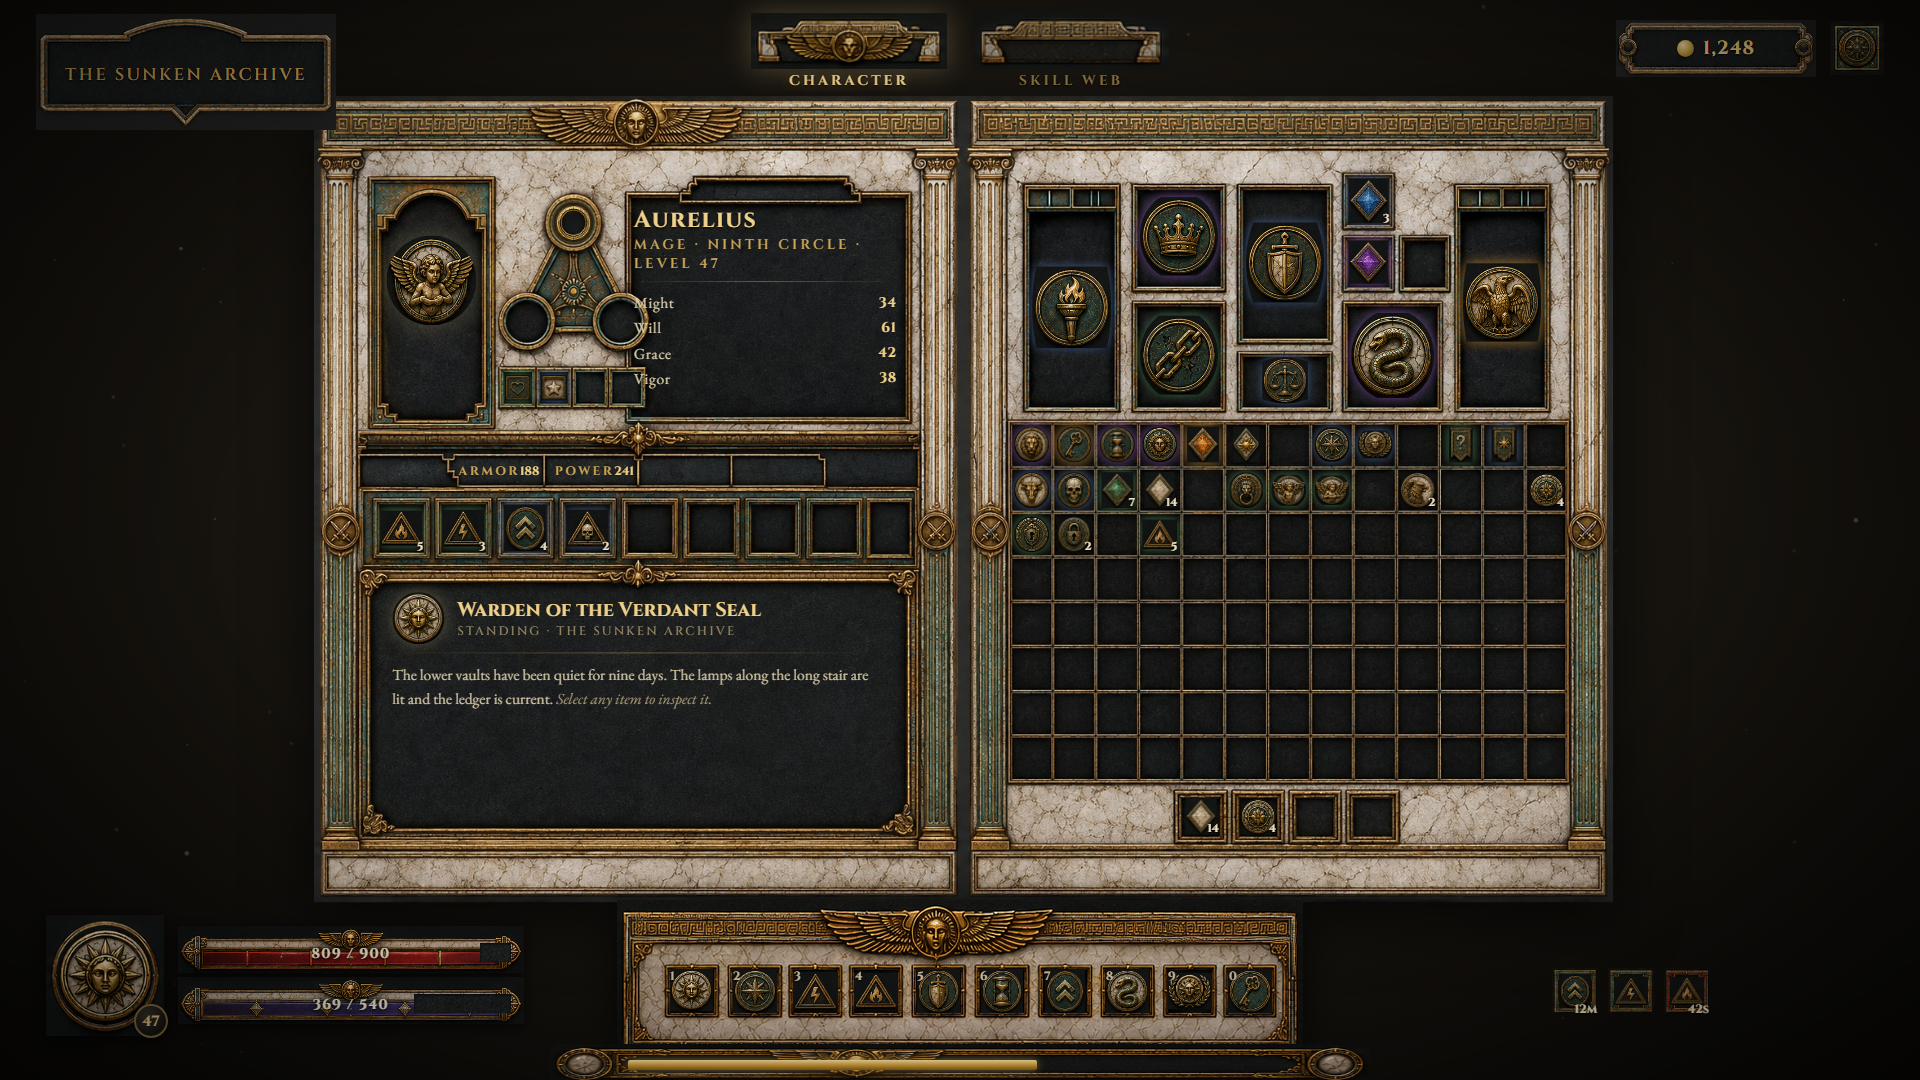
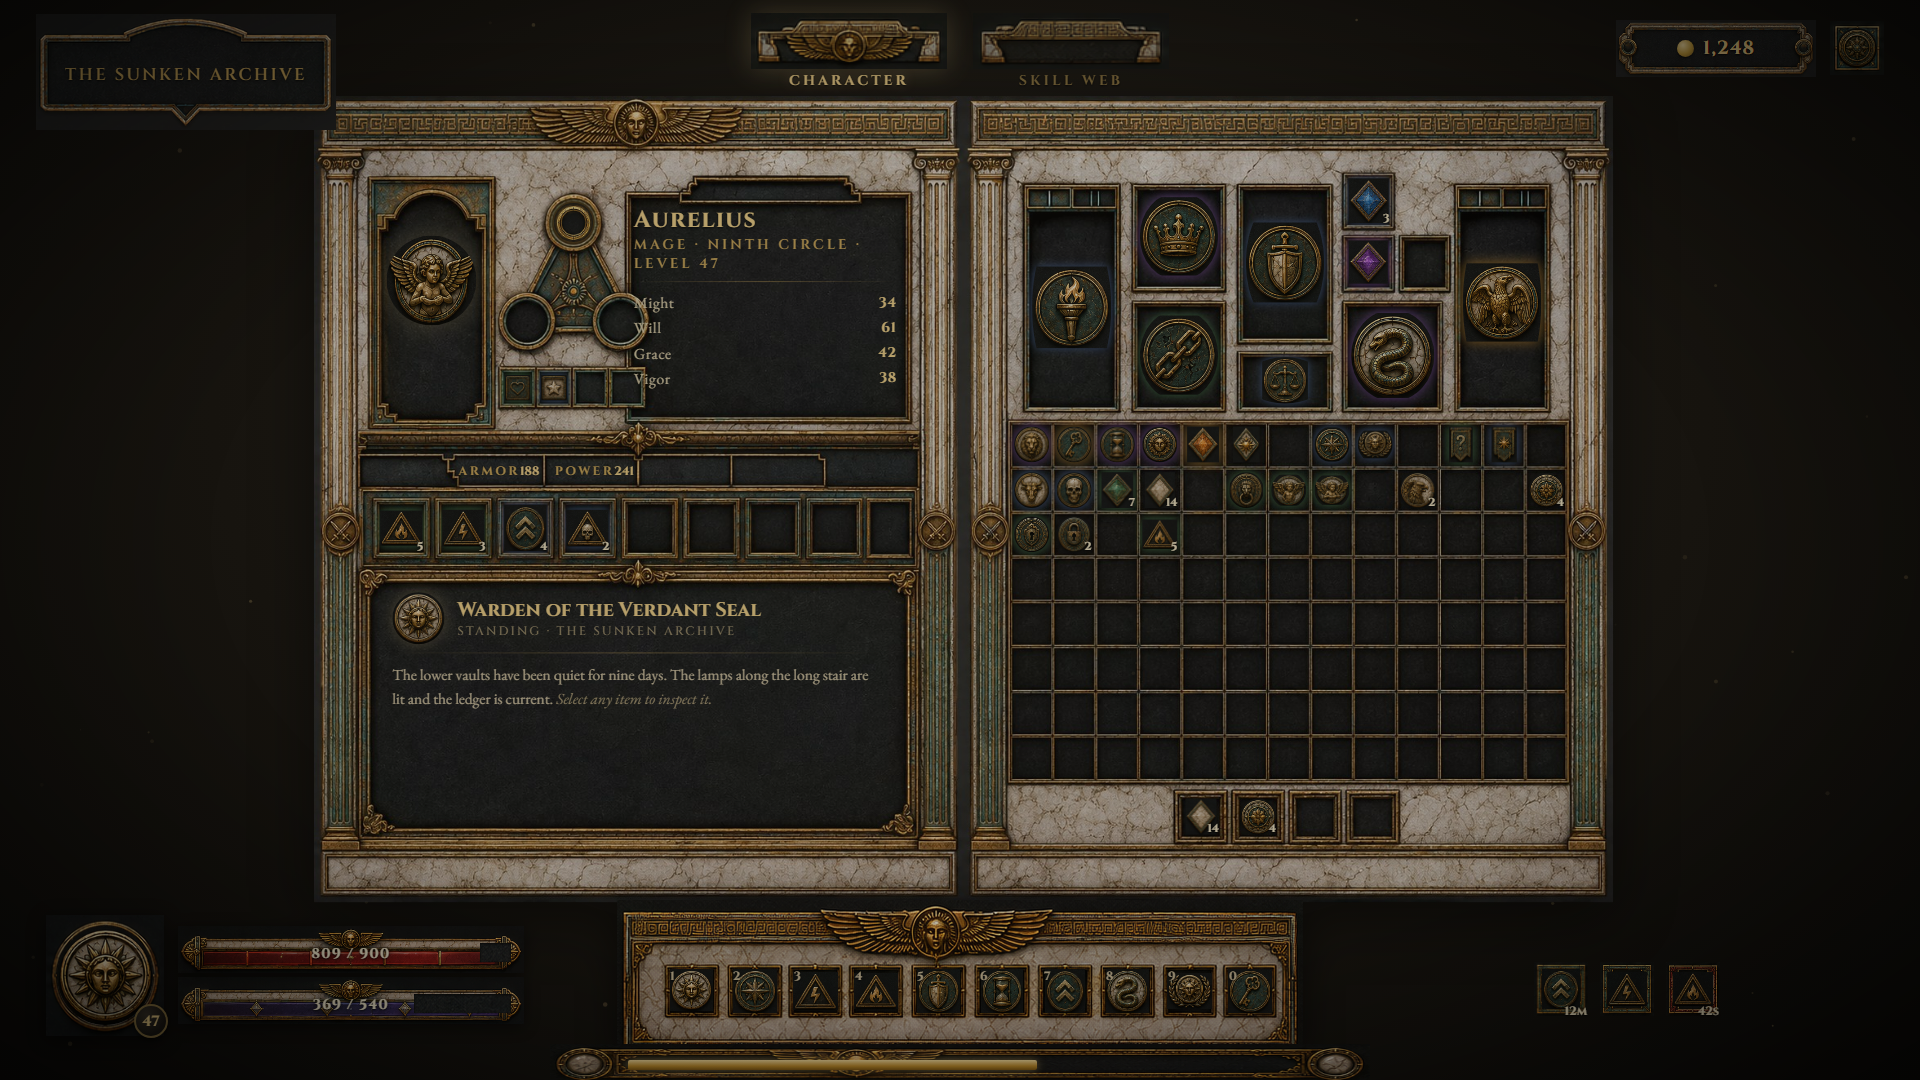
FrameKit polish: drag targets pulse on pickup, skill-node cursor tooltips, mana cost floaters, Escape toggles settings, XP tooltip, fade-in, bigger buffs; fix reagent row to the four real wells

diff --git a/tools/gui_framekit/game/game.js b/tools/gui_framekit/game/game.js
@@ -176,7 +176,7 @@ ROWS.forEach((y, r) => COLS.forEach((x, c) => {
   if (it) fill(s, it);
 }));
 /* reagent row (bottom of right panel) */
-[1062, 1132, 1202, 1272, 1342].forEach((x, i) => {
+[1062, 1132, 1202, 1272].forEach((x, i) => {
   const s = makeSlot(x, 858, 50, 50, { label: "Reagent" });
   if (i === 0) fill(s, ITEMS.gemC);
   if (i === 1) fill(s, ITEMS.rosette);
@@ -282,6 +282,10 @@ overlay.addEventListener("pointerdown", ev => {
   ghost.style.display = "block";
   const pt = stagePoint(ev);
   ghost.style.left = px(pt.x - 29); ghost.style.top = px(pt.y - 29);
+  // light up the typed slots that can take this item
+  slots.forEach(t => {
+    if (t !== s && t.accepts && canDrop(t, s.item)) t.el.classList.add("can-take");
+  });
   hideTip();
   ev.preventDefault();
 });
@@ -297,9 +301,9 @@ addEventListener("pointermove", ev => {
     return;
   }
   const s = slotFromEvent(ev);
-  if (s && (s.item || s.label)) {
+  if (s && (s.item || s.accepts)) {
     showTip(s.item, s.label, stagePoint(ev));
-  } else if (!ev.target.closest || !ev.target.closest(".abil,.node,.buff")) {
+  } else if (!ev.target.closest || !ev.target.closest(".abil,.node,.buff,#xpbar")) {
     hideTip();
   }
 });
@@ -307,7 +311,7 @@ addEventListener("pointermove", ev => {
 addEventListener("pointerup", ev => {
   if (!drag) return;
   ghost.style.display = "none";
-  slots.forEach(s => s.el.classList.remove("drop-ok", "drop-bad"));
+  slots.forEach(s => s.el.classList.remove("drop-ok", "drop-bad", "can-take"));
   const to = slotFromEvent(ev);
   const { from, item } = drag;
   drag = null;
@@ -383,12 +387,17 @@ fetch("assets/layout.json").then(r => r.json()).then(L => {
     const name = isKey ? "The Verdant Seal" : NODE_NAMES[i % NODE_NAMES.length];
     const desc = isKey ? "Every path in the web begins and ends at the seal."
       : NODE_DESCS[i % NODE_DESCS.length];
-    el.addEventListener("pointerenter", () => {
+    if (isKey) el.classList.add("keystone");
+    el.addEventListener("pointerenter", ev => {
       skillName.textContent = name;
       skillDesc.textContent = desc;
       skillMeta.textContent = el.classList.contains("on")
         ? "Learned" : (isKey ? "Keystone" : "Cost · 1 point");
+      showTip({ name, rarity: el.classList.contains("on") ? "legendary" : "common",
+        type: isKey ? "Keystone" : "Passive · 1 point", stats: [desc], flavor: "", round: true },
+        name, stagePoint(ev));
     });
+    el.addEventListener("pointerleave", hideTip);
     el.addEventListener("click", () => {
       if (isKey) return;
       if (el.classList.contains("on")) {
@@ -477,6 +486,7 @@ function cast(a) {
   }
   vitals.mp.cur -= a.cost;
   drawVitals();
+  floatText(`−${a.cost}`, "#c9b3ef");
   a.until = now + a.cd * 1000;
   const tick = () => {
     const left = a.until - performance.now();
@@ -492,8 +502,18 @@ addEventListener("keydown", ev => {
   if (i >= 0 && abils[i]) cast(abils[i]);
   if (ev.key.toLowerCase() === "c") show("character");
   if (ev.key.toLowerCase() === "v") show("skills");
-  if (ev.key === "Escape") backdrop.classList.remove("open");
+  if (ev.key === "Escape") backdrop.classList.toggle("open");
 });
+
+/* floating combat-style text over the mana bar */
+function floatText(text, color) {
+  const f = document.createElement("span");
+  f.className = "floater";
+  f.textContent = text;
+  f.style.color = color;
+  $("#manaBar").appendChild(f);
+  setTimeout(() => f.remove(), 1100);
+}
 
 /* buffs */
 const BUFFS = [
@@ -514,6 +534,9 @@ BUFFS.forEach(([frame, glyph, name, t]) => {
 
 /* xp */
 $("#xpFill").style.width = px(Math.round((820 - 160) * 0.62));
+$("#xpbar").addEventListener("pointerenter", ev =>
+  showTip(null, "Level 47 · 4,180 / 6,700 XP", stagePoint(ev)));
+$("#xpbar").addEventListener("pointerleave", hideTip);
 
 /* ----------------------------------------------------------- settings */
 const settings = { music: true, motes: true, keybinds: true, quality: 2 };

diff --git a/tools/gui_framekit/game/game.css b/tools/gui_framekit/game/game.css
@@ -38,6 +38,25 @@ img { -webkit-user-drag: none; user-drag: none; pointer-events: none; }
   width: 1920px; height: 1080px;
   transform-origin: center center;
   z-index: 2;
+  animation: stagein .7s ease-out;
+}
+@keyframes stagein {
+  from { opacity: 0; }
+  to { opacity: 1; }
+}
+
+.floater {
+  position: absolute; left: 50%; top: -6px;
+  transform: translateX(-50%);
+  font-family: Cinzel, serif; font-weight: 700; font-size: 20px;
+  text-shadow: 0 1px 3px #000, 0 0 8px rgba(0,0,0,.6);
+  animation: floatup 1.05s ease-out forwards;
+  pointer-events: none;
+}
+@keyframes floatup {
+  from { opacity: 0; transform: translate(-50%, 8px); }
+  20% { opacity: 1; }
+  to { opacity: 0; transform: translate(-50%, -30px); }
 }
 
 .engrave {
@@ -156,6 +175,11 @@ img { -webkit-user-drag: none; user-drag: none; pointer-events: none; }
 }
 .slot:hover { box-shadow: inset 0 0 0 2px rgba(240,209,138,.75), inset 0 0 18px rgba(240,209,138,.25); }
 .slot.drop-ok { box-shadow: inset 0 0 0 2px rgba(140,220,140,.9), inset 0 0 18px rgba(140,220,140,.35); }
+.slot.can-take { animation: cantake 1.1s ease-in-out infinite; }
+@keyframes cantake {
+  0%, 100% { box-shadow: inset 0 0 0 2px rgba(240,209,138,.35), inset 0 0 10px rgba(240,209,138,.15); }
+  50% { box-shadow: inset 0 0 0 2px rgba(240,209,138,.8), inset 0 0 20px rgba(240,209,138,.35); }
+}
 .slot.drop-bad { box-shadow: inset 0 0 0 2px rgba(220,90,70,.9), inset 0 0 18px rgba(220,90,70,.35); }
 .slot.selected { box-shadow: inset 0 0 0 2px rgba(240,209,138,.95), inset 0 0 22px rgba(240,209,138,.4); }
 
@@ -233,6 +257,11 @@ img { -webkit-user-drag: none; user-drag: none; pointer-events: none; }
 .node:hover::after { border-color: rgba(240,209,138,.85); box-shadow: 0 0 16px rgba(240,209,138,.45); }
 .node.on { background: radial-gradient(circle, rgba(240,200,110,.42) 0%, rgba(240,200,110,.12) 55%, transparent 72%); }
 .node.on::after { border-color: rgba(240,209,138,.9); box-shadow: 0 0 22px rgba(240,190,100,.6), inset 0 0 14px rgba(240,190,100,.35); }
+.node.keystone.on { animation: keypulse 3.4s ease-in-out infinite; }
+@keyframes keypulse {
+  0%, 100% { filter: brightness(1); }
+  50% { filter: brightness(1.35); }
+}
 
 #skillPanel { position: absolute; left: 118px; top: 236px; width: 342px; }
 #skillPanel > img { width: 100%; height: auto;
@@ -311,10 +340,10 @@ img { -webkit-user-drag: none; user-drag: none; pointer-events: none; }
 .abil.oom { animation: shake .3s; }
 .abil.oom img { filter: drop-shadow(0 0 8px rgba(220,80,60,.8)); }
 
-#buffs { position: absolute; right: 210px; bottom: 66px; display: flex; gap: 10px; }
-.buff { position: relative; width: 46px; height: 46px; }
+#buffs { position: absolute; right: 200px; bottom: 64px; display: flex; gap: 12px; }
+.buff { position: relative; width: 54px; height: 54px; }
 .buff .frame { position: absolute; inset: 0; width: 100%; height: 100%; }
-.buff .glyph { position: absolute; inset: 6px; width: 34px; height: 34px; object-fit: contain; }
+.buff .glyph { position: absolute; inset: 7px; width: 40px; height: 40px; object-fit: contain; }
 .buff .t {
   position: absolute; right: 1px; bottom: -3px;
   font-family: Cinzel, serif; font-size: 12px; font-weight: 700;
